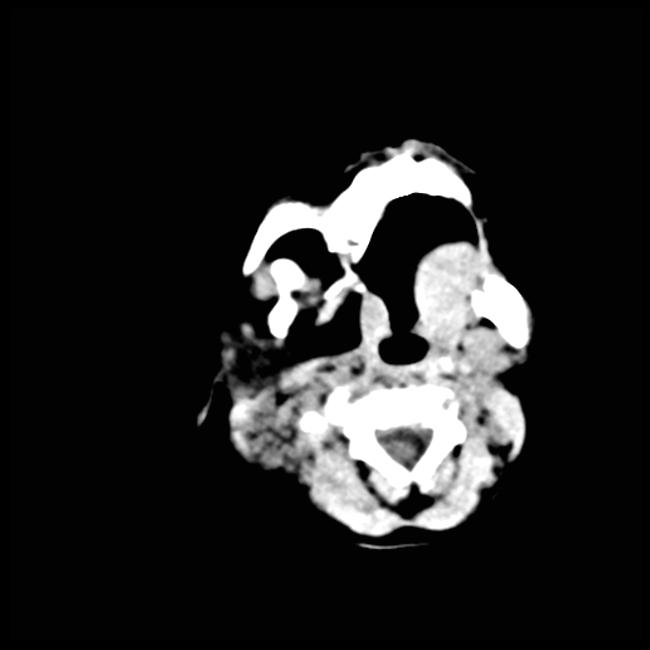
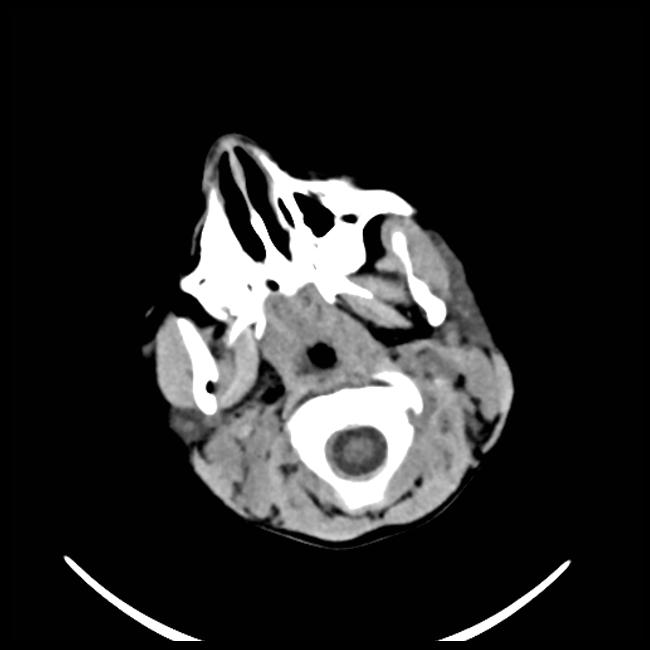
Updated...

Changed region(s): [[0.2154, 0.1846, 0.8308, 0.8615], [0.6769, 0.8615, 0.8923, 0.9846], [0.0923, 0.8615, 0.3077, 0.9846]]

diff --git a/templates/DAppoitmentInfo.html b/templates/DAppoitmentInfo.html
@@ -12036,7 +12036,7 @@ section.w3l-grid-quote h3 {
                 <td><div align="center">{{item[5]}}</div></td>
                    <td><div align="center">{{item[6]}}</div></td>
                    <td><div align="center">{{item[7]}}</div></td>
-                   <td> <div align="center" class="style1"> <a  href="/AssignDrug?id={{item[0]}}&st={{item[7]}}" >AssignDrug</a></div> </td>
+                   <td> <div align="center" class="style1"> <a  href="/AssignDrug?id={{item[0]}}&st={{item[7]}}" >Assign drug.</a></div> </td>
 
 
               </tr>

diff --git a/templates/ViewDoctor.html b/templates/ViewDoctor.html
@@ -11992,7 +11992,7 @@ section.w3l-grid-quote h3 {
 				  <td><div align="center">{{item[5]}}</div></td>
 				   <td><div align="center">{{item[6]}}</div></td>
 
-              <td> <div align="center" class="style1"> <a  href="/Appointment?id={{item[6]}}" >Appointment</a></div> </td>
+              <td> <div align="center" class="style1"> <a  href="/Appointment?id={{item[6]}}" >Book an appointment.</a></div> </td>
 
 
 

diff --git a/templates/ASD1.html b/templates/ASD1.html
@@ -11961,7 +11961,7 @@ section.w3l-grid-quote h3 {
 <!-- Contact section -->
 <section class="w3l-contact py-5" id="contact" align="center">
   <div class="container py-lg-3" align="center">
-    <h3 class="title mb-4" style=" bottom margin:10px; ">ASD  Disorder Prediction </h3>
+    <h3 class="title mb-4" style=" bottom margin:10px; ">ASD Prediction </h3>
       <div>
 
       </div>

diff --git a/App.py b/App.py
@@ -212,7 +212,7 @@ def Accept():
     conn = mysql.connector.connect(user='root', password='', host='localhost', database='brainasddb')
     cursor = conn.cursor()
     cursor.execute(
-        "update   apptb set status='Accept' where id='" + id + "'")
+        "update apptb set status='Accepted' where id='" + id + "'")
     conn.commit()
     conn.close()
 
@@ -239,7 +239,7 @@ def Reject():
     conn = mysql.connector.connect(user='root', password='', host='localhost', database='brainasddb')
     cursor = conn.cursor()
     cursor.execute(
-        "update apptb set status='Reject' where id='" + id + "'")
+        "update apptb set status='Rejected' where id='" + id + "'")
     conn.commit()
     conn.close()
 
@@ -264,7 +264,7 @@ def AssignDrug():
     id = request.args.get('id')
     st = request.args.get('st')
     session['apid'] = id
-    if st == "Accept":
+    if st == "Accepted":
         return render_template('DAssignDrug.html')
     else:
         flash("Appointment Rejected.")
